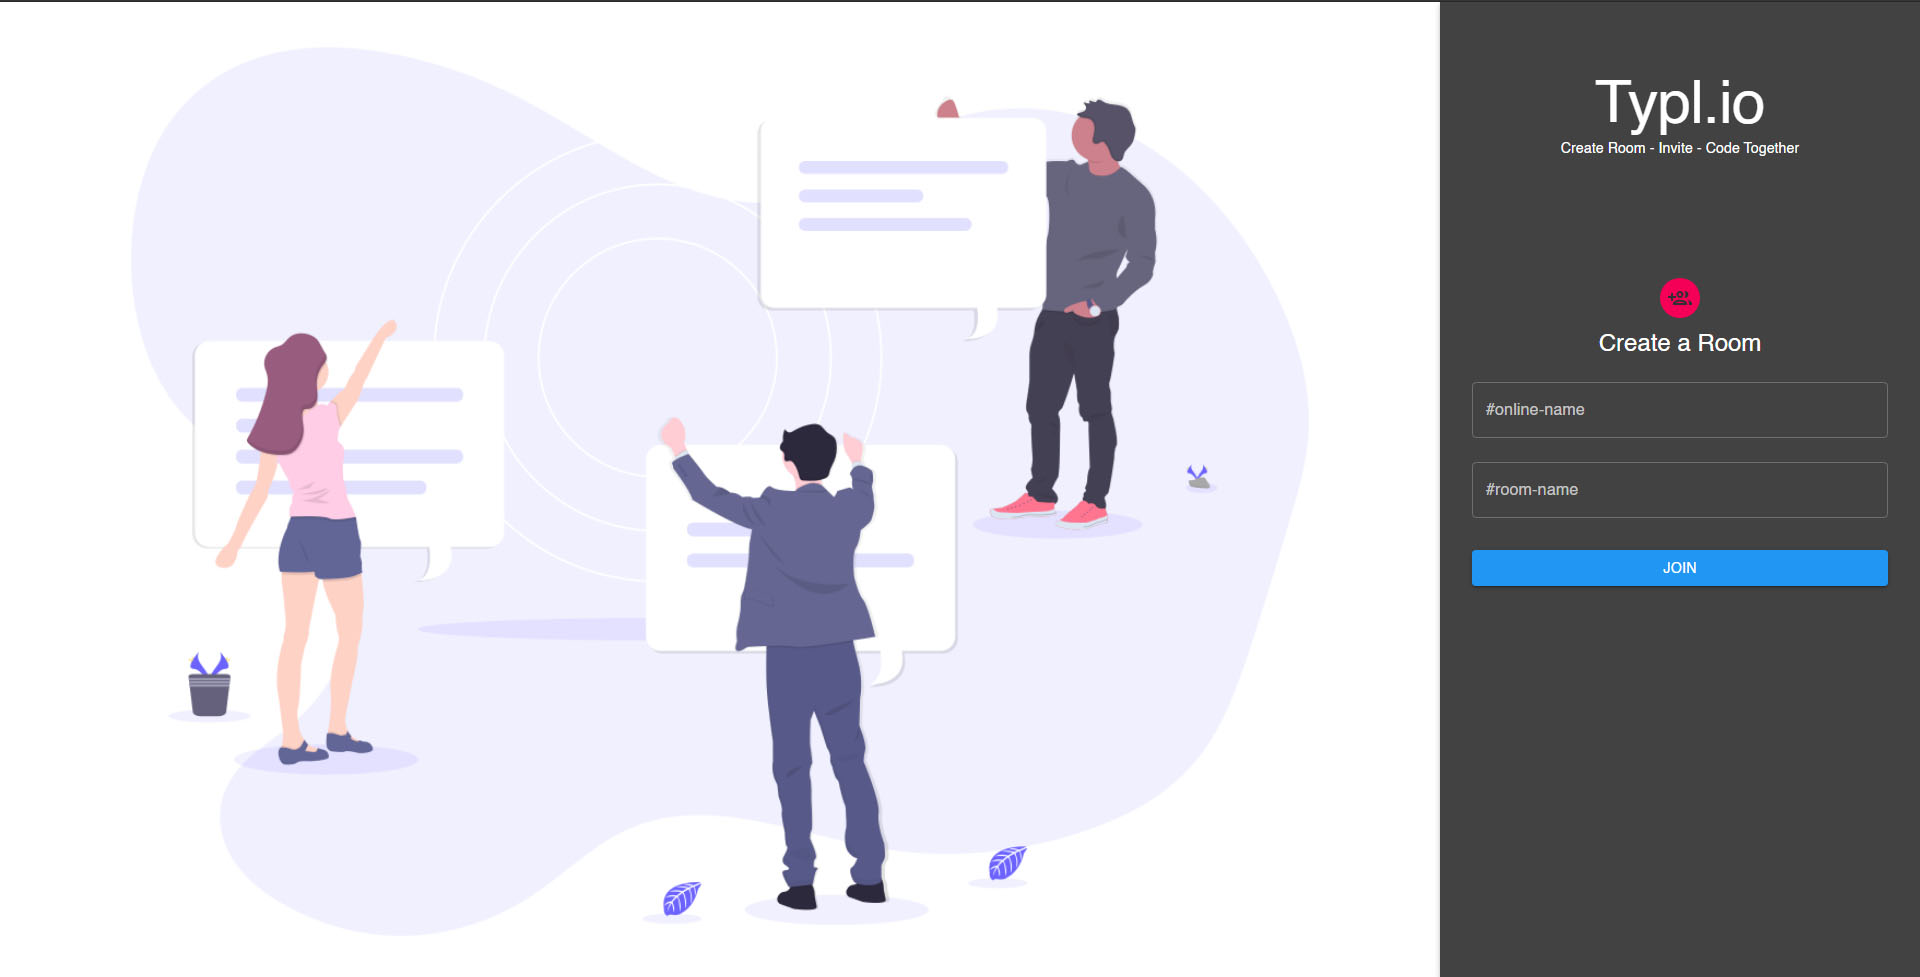
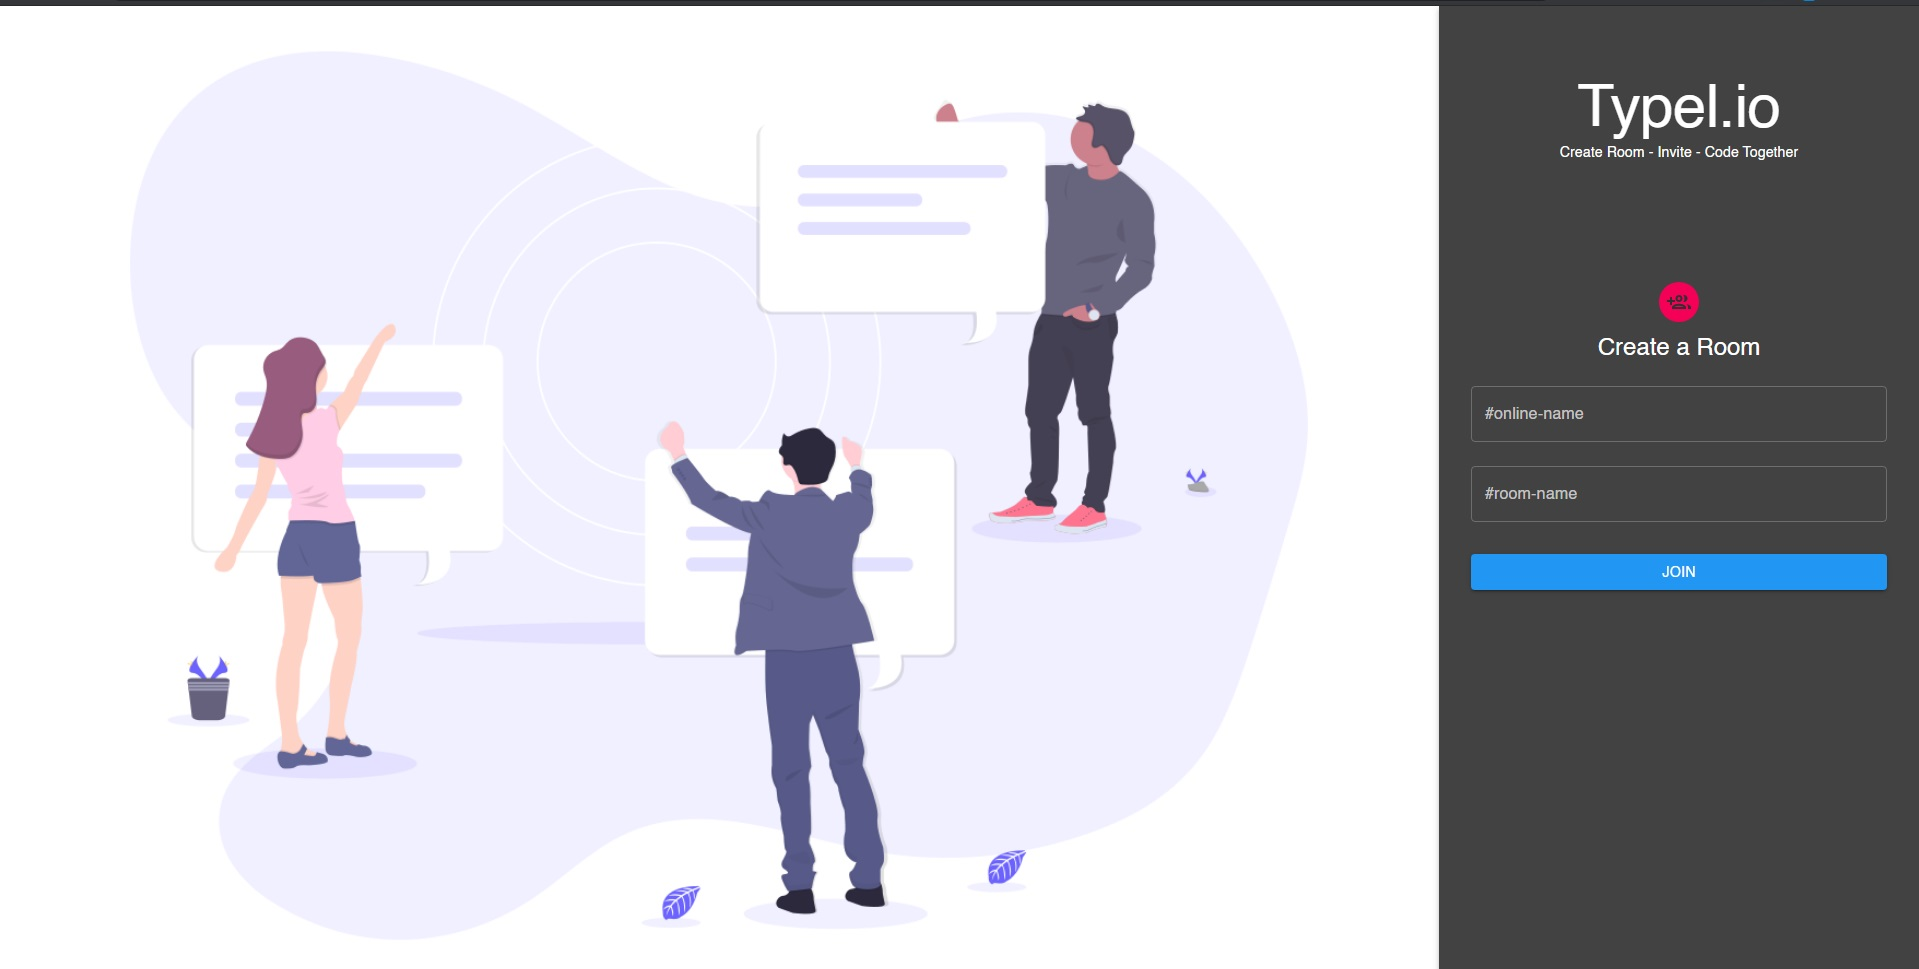
updated readme

diff --git a/client/src/components/Home.js b/client/src/components/Home.js
@@ -68,7 +68,7 @@ export default function Home() {
                         <Box mt={5}>
                         </Box>
                         <div className={classes.paper}>
-                            <Typography variant="h2">Typl.io</Typography>
+                            <Typography variant="h2">Typel.io</Typography>
                             <Typography variant="body2">Create Room - Invite - Code Together</Typography>
                             <Box m={7} />
                             <Avatar className={classes.avatar} >
